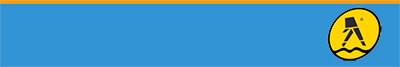
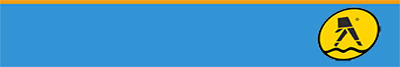
Start screen added

Changed region(s): [[0.78, 0.0896, 0.96, 0.9254]]

diff --git a/Source Code/game.js b/Source Code/game.js
@@ -40,11 +40,12 @@ var myGameArea = {
         initShopping();
         initStores();
 
-        var bottomBar = new Image(50, 200);
-        bottomBar.src = "Art/Bottom_bar.png";
+        var startScreen = new Image(180, 380);
+        startScreen.src = "Art/StartScreen.png";
 
-        bottomBar.onload = function(){ myGameArea.context.drawImage(bottomBar, 0, myGameArea.canvas.height - 50, 200, 50);
-                                     }
+        startScreen.onload = function(){
+            myGameArea.context.drawImage(startScreen, 10, 10, 180, 380);
+        }
     }
 }
 
